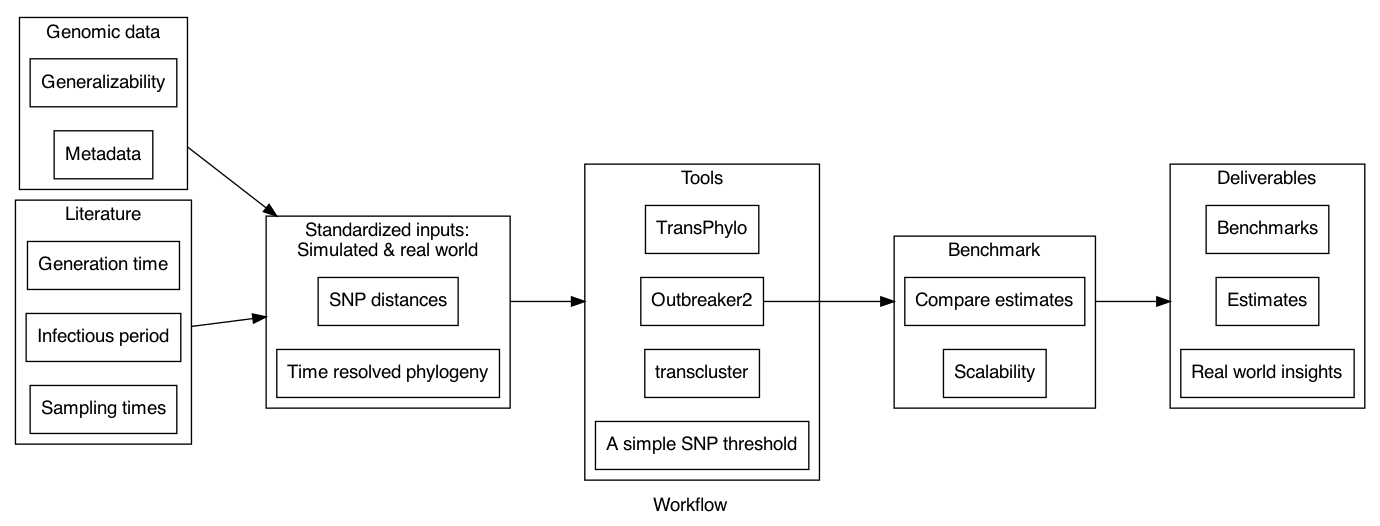
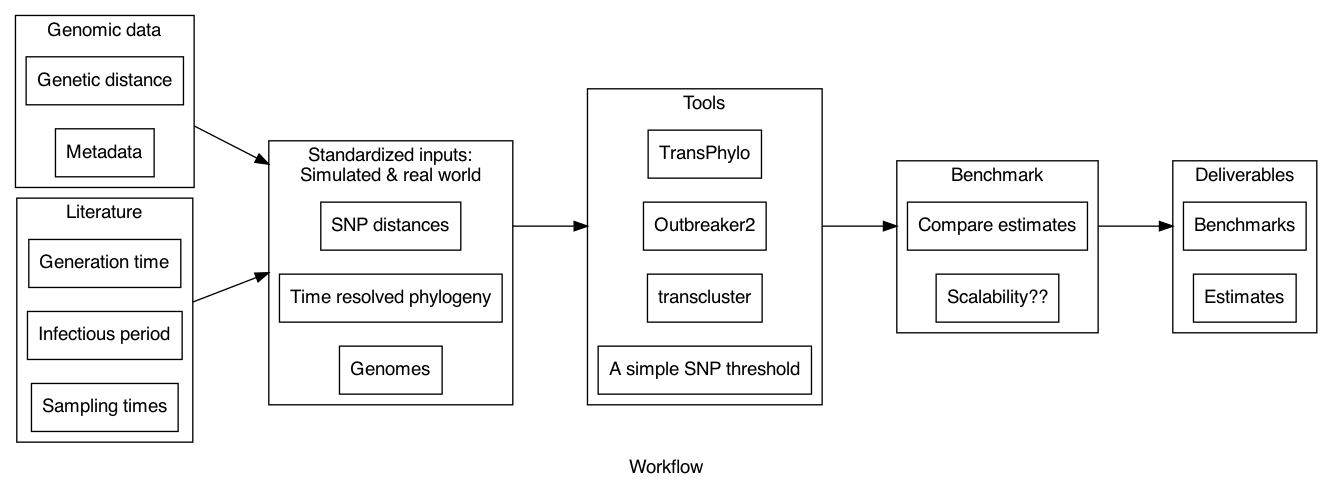
Updated README.md and workflow

Changed region(s): [[0.0, 0.0307, 1.0, 0.9836], [0.1847, 0.2766, 0.3694, 0.3689]]

diff --git a/README.md b/README.md
@@ -1,12 +1,29 @@
-# Team Project Name
+# Team 5: Estimating direct transmission in routine clinical sequencing from well sampled locations
 
 List of participants and affiliations:
-- Participant, Affiliation (Team Leader)
-- Participant, Affiliation
+- Abhishek Mishra
+- Ashwin Babu
+- Chrispin Chaguza
+- Joshua Levy
+- Karthik G
+- Lax Iyer
+- Tyler Chefin
+- Xiaopeng Bian
 
 ## Project Goals
 
+* Benchmark three existing tools and include a simple SNP threshold as a baseline
+    * Create simulated dataset and curate real world dataset.
+    * Run tools on both datasets.
+    * Compare estimates across tools for both datasets.
+    * Identify a tool(s) based on estimates and scalability.
+* Run selected tool(s) on dataset from a single well sampled location
+* Visualize estimates 
 ## Approach
+
+We selected three well-used tools to be part of our benchmarking analysis: [TransPhylo](https://github.com/xavierdidelot/TransPhylo), [outbreaker2](https://github.com/reconhub/outbreaker2), and [transcluster](https://github.com/JamesStimson/transcluster). We will include a simple SNP threshold to identify transmission clusters as a baseline. 
+
+We simulated an outbreak using TransPhylo and simulated sequences from the resulting phylogenetic tree using [phastsim](https://github.com/NicolaDM/phastSim). For a real world dataset, we used all the sequences from Massachusetts, USA from the form of July 2010 from GISAID. This time period covers a well characterized superspreading event [(Ref)](https://www.sciencedirect.com/science/article/pii/S0092867421014902). 
 
 ## Results
 
